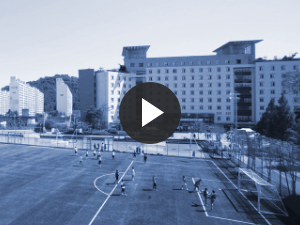
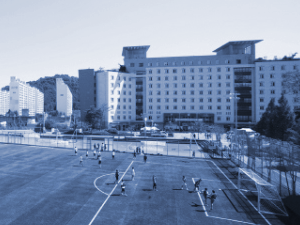
.

Changed region(s): [[0.39, 0.3422, 0.63, 0.6533]]

diff --git a/02_college/css/style.css b/02_college/css/style.css
@@ -5,7 +5,8 @@
 		#header {width: 100%;}
 		#header .topHead {background: #0044af;}
 		#header .container {width: 1200px; margin: 0 auto;position: relative;}
-		.topHead .menuLeft li { display: inline-block;width: 120px;float: left;padding: 12px 0;text-align: center;font-weight: bold;margin-right: 5px;}
+		.topHead .menuLeft li { display: inline-block;width: 120px;float: left;text-align: center;font-weight: bold;margin-right: 5px;}
+		.topHead .menuLeft li a{display: block;padding: 12px;}
 
 		#header .menuLeft li:nth-child(1) a,
 		.topHead .menuLeft li:nth-child(2):hover a,
@@ -23,18 +24,23 @@
 
 
 		.topHead .menuRight {position: absolute; right: 0;}
-		.topHead .menuRight li{display:inline-block;font-size: 12px;padding: 12px 10px 12px 0;line-height: 22px;}
-		.topHead .menuRight li a {color: #fff;}
-		.topHead .menuRight li:nth-child(2){padding-right: 0; }
-		.topHead .menuRight li:nth-child(3){padding-left:0;}
+		.topHead .menuRight li{display:inline-block;font-size: 12px;line-height: 22px;}
+		.topHead .menuRight li a {color: #fff;display: block; padding: 12px;}
+		.topHead .menuRight li:nth-child(2) a,
+		.topHead .menuRight li:nth-child(3) a {padding: 12px 0;}
+		.topHead .menuRight li:last-child a {padding-right: 0;}
 
 /*		----------------HEADER 2----------------------------------------*/
+		.downHead {position: relative;}
 		.downHead .logo {float: left;}
-		.downHead .downRight{float: right;padding: 36px 0 ; position: absolute;right: 0;}
-		.downHead .downMenu{float: right; }
-		.downHead .downMenu li{display: inline-block;padding: 12px 55px 12px 0;}
-		.downHead .downMenu li a{color: #000;}
+		.downHead .downRight{float: right;line-height: 45px; padding: 40px 0;}
+		.downHead .downMenu{float: right;}
+		.downHead .downMenu li{display: inline-block;}
+		.downHead .downMenu li a{color: #000;padding: 35px 0;padding-right: 53px;}
 		.downHead .downRight img{float: right;}
+
+		.topHead .menuRight li:hover a,
+		.downHead .downMenu li:hover a {opacity: .5;}
 
 /*		-----------------TOP SECTION---------------------------------------*/
 		#section {width: 100%;
@@ -43,15 +49,23 @@
 			background-size:3px, cover;
 			margin: 0 auto;}
 
-		#section .container {width: 1200px; margin: 0 auto;}
-		#section .container,
-		#section .container a {color: white}
+		#section .container {width: 1200px; margin: 0 auto; }
+		#section .container .conta01 {padding: 30px 0;}
+		#section .container .conta01 h2,
+		#section .container .conta01 h1 {color: #fff;}
+
+		#section .container a,
+		#section .container h2,
+		#section .container td,
+		#section .container p {color: white}
 		#section .container h2 {font-weight: normal;}
 		#section .container h1 {font-size:50px ;}
 
-		#section .textBig {float: left;}
+		#section .textBig {float: left;margin-top: 10px;}
 		#section .iconBox {float: right;}
 		#section .iconBox li{display: inline-block;padding-left: 20px;text-align: center;}
+		#section .iconBox li a {display: block;}
+		#section .iconBox li:hover a {opacity: .7;}
 /*		------------------CONTENT SECTION--------------------------------------*/
 		#contentsWrap .container > ul >li{float: left;width: 25%;height: 225px;}
 		.container .textWrap h2 span{font-weight: bold;}
@@ -60,11 +74,11 @@
 		#contentsWrap .container > ul >li:nth-child(1){width: 75%;position: relative;}
 
 		.container .cBox00 .slider .textWrap {position: absolute;bottom: 80px;left: 88px;}
-		.container .cBox00 .slider .textWrap h2 {color: #1651b7;font-size: 70px;width: 300px;letter-spacing: -8px;}
+		#section .container .cBox00 .slider .textWrap h2 {color: #1651b7;font-size: 70px;width: 300px;letter-spacing: -8px;margin-bottom: 30px;}
 		.container .cBox00 .slider .textWrap h2 span{font-weight: bold;}
 
-		.cBox00 .slider .textWrap .btn {background: #00163b;}
-		.cBox00 .slider .textWrap .btn:hover {background: #1651b7;}
+		#section .cBox00 .slider .textWrap .btn {background: #00163b;}
+		#section .cBox00 .slider .textWrap .btn:hover {background: #1651b7;}
 
 		.container .prevBtn {left: 0px;}
 		.container .nextBtn {right: 0; transform: scaleX(-1);}
@@ -73,42 +87,44 @@
 		.container .nextBtn:hover,
 		.container .prevBtn:hover {cursor: pointer;}
 
-		.cBox00 .bx-wrapper .bx-pager {padding-bottom: 70px;}
+		.cBox00 .bx-wrapper .bx-pager {bottom: 36px;}
 		.cBox00 .bx-wrapper .bx-pager.bx-default-pager a{background: #535353;}
 		.cBox00 .bx-wrapper .bx-pager.bx-default-pager a:hover,
 		.cBox00 .bx-wrapper .bx-pager.bx-default-pager a.active,
-		.cBox00 .bx-wrapper .bx-pager.bx-default-pager a:focus{ background: #0144af;}
+		#section .cBox00 .bx-wrapper .bx-pager.bx-default-pager a:focus{ background: #0144af;}
 /* -----------------------------2nd box---------------------------------------- */
-		#contentsWrap .container > ul >li:nth-child(2) {background: url(../images/level1-2.png)no-repeat;height: 450px;}
-		.container .cBox1 .textWrap {width: 230px; padding-top:45px; margin: 0 auto; letter-spacing: -3px;}
-		.container .cBox1 .textWrap h2 {font-size: 38px;font-weight:100;}
-		.cBox1 .textWrap .btn {background: rgba(54, 37, 17, 0.78);border: 1px solid #fff; letter-spacing: 0px;}
+		#contentsWrap .container > ul >li:nth-child(2) {background: url(../images/level1-2.png)no-repeat;height: 450px;padding: 70px 37px;}
+		.container .cBox1 .textWrap h2 {font-size: 38px;font-weight:100;margin-bottom: 20px;letter-spacing: -4px;}
+		.cBox1 .textWrap .btn {background: rgba(54, 37, 17, 0.78);border: 1px solid #fff;}
 		.cBox1 .textWrap .btn:hover {background: rgba(168, 116, 54, 0.77);}
 
 /* -----------------------------3rd box---------------------------------------- */
-#contentsWrap .container > ul >li:nth-child(3) {background: #00163b;}
+#contentsWrap .container > ul >li:nth-child(3) {background: #00163b;padding: 20px;}
 .container .cBox2 h3,
 .container .cBox3 h3,
-.container .cBox4 h3{font-weight:bolder;padding: 12px;font-size: 28px;}
-.container .cBox2 ul {display: flex;margin-top: 10px;justify-content: center}
-.container .cBox2 ul li {float: left;width: calc(90% / 3 );text-align: center;}
+.container .cBox4 h3{font-weight:bolder;font-size: 28px;}
+.container .cBox2 ul {display: flex;margin-top: 15px;justify-content: center}
+.container .cBox2 ul li {float: left;width: calc(100% / 3 );text-align: center;}
+.container .cBox2 ul li a {display: block;}
 #section .container .cBox2 ul li:hover p {opacity: .7;}
 /* -----------------------------4th box---------------------------------------- */
-#contentsWrap .container > ul >li:nth-child(4) {background:url(../images/tmp.png);}
-.container table {width: 88%;margin: 0 auto;font-size: 13px;line-height: 33px;border-top: 2px solid white;}
-.container table tr:before {content:"·";margin-right: 5px;}
+#contentsWrap .container > ul >li:nth-child(4) {background:url(../images/tmp.png);padding: 20px;}
+.container table {width:100%; margin: 15px auto;font-size: 13px;line-height: 30px;border-top: 2px solid white;}
+.container table tr:before {content:"·";margin-right: 5px;color: #fff;}
 #section .container .cBox3 table tr a:hover {color: #ddd;}
 /* -----------------------------5th box---------------------------------------- */
-#contentsWrap .container > ul >li:nth-child(5) {background: #fff;}
+#contentsWrap .container > ul >li:nth-child(5) {background: #fff;padding: 20px;}
 .container .cBox4 h3,
 .container .cBox4 p {color: #00173b;}
-.container .cBox4 .box4Wrap {width: 88%;  margin: 0 auto;position: relative;}
+.container .cBox4 .box4Wrap {width: 100%;  margin: 15px auto;position: relative;}
 .container .cBox4 .article {display: block;}
 .container .cBox4 .article img {float: left;width: 45%;}
-.container .cBox4 .article p {float: right;font-size: 15px;width: 52%;}
-.container .cBox4 .article:hover p {color: #999;}
+#section .container .cBox4 .article p {float: right;font-size: 14px;width: 52%; color: #000;}
+.container .cBox4 .article a {display: block;}
+#section .container .cBox4 .article:hover p {color: #999;}
+.container .cBox4 .snsBox {float: right;margin-top: 15px;}
+.container .cBox4 .snsBox a:hover,
 .container .cBox4 .article:hover img {opacity: .7;}
-.container .cBox4 .snsBox {float: right; padding-top: 25px;}
 
 /* -----------------------------6th box---------------------------------------- */
 #contentsWrap .container > ul >li:nth-child(6) {background: url(../images/level2-4.png)no-repeat;position: relative;}
@@ -116,29 +132,33 @@
 
 .container .cBox5 .textBox5 a{font-size: 19px;font-weight: bold;transition: all 0.3s}
 .container .cBox5:hover .textBox5 {height: 100%;}
-.container .cBox5:hover .textBox5 a {line-height: 225px;}
+.container .cBox5:hover .textBox5 a {line-height: 225px;display: block;}
 /* -----------------------------7th box---------------------------------------- */
+#contentsWrap .container > ul >li:nth-child(7) {background:url(../images/level3-1.png)no-repeat;position: relative;padding: 40px;}
 #contentsWrap .container > ul >li:nth-child(7):hover {cursor: pointer;}
-#contentsWrap .container > ul >li:nth-child(7):hover img {filter:brightness(.6);transition:.3s}
+#contentsWrap .container > ul >li:nth-child(7) img {display: flex;margin: auto;margin-top: 40px;}
+#contentsWrap .container > ul >li:nth-child(7):hover img {filter:brightness(.6);transition:.3s;}
 /* -----------------------------8th box---------------------------------------- */
 #contentsWrap .container > ul >li:nth-child(8) {width: 75%;position: relative;overflow: hidden;}
 
-.cBox6 .textWrap {color: #f74237 ;position: absolute;top: 10%;left: 3%;font-size: 28px;}
-.cBox6 .textWrap h2 {font-weight: bolder; font-size: 60px;padding-bottom: 10px;}
-.cBox6 .textWrap .btn {border: 1px solid #fff; background: rgba(232, 13, 0, 0.6);font-size: 16px;}
-.cBox6 .textWrap .btn:hover {background:rgba(255, 114, 106, 0.6); }
+#section .cBox6 .textWrap p,
+#section .cBox6 .textWrap h2 {color: #f74237 ;}
+#section .cBox6 .textWrap {height: 100%;position: absolute;top:0;left:0;font-size: 28px;padding: 25px;}
+#section .cBox6 .textWrap h2 {font-weight: bolder; font-size: 60px;padding-bottom: 10px;}
+#section .cBox6 .textWrap .btn {border: 1px solid #fff; background: rgba(232, 13, 0, 0.6);font-size: 16px;}
+#section .cBox6 .textWrap .btn:hover {background:rgba(255, 114, 106, 0.6); }
 
-.cBox6 .bx-wrapper .bx-pager {position: absolute;top: 1px;text-align: right;right: 40px;width:100px;}
-.cBox6 .bx-wrapper .bx-pager.bx-default-pager a{background: #535353;}
-.cBox6 .bx-wrapper .bx-pager.bx-default-pager a:hover,
-.cBox6 .bx-wrapper .bx-pager.bx-default-pager a.active,
-.cBox6 .bx-wrapper .bx-pager.bx-default-pager a:focus{ background: #f74237;}
+#section .cBox6 .bx-wrapper .bx-pager {position: absolute;top: 1px;text-align: right;right: 40px;width:100px;height: 40px;}
+#section .cBox6 .bx-wrapper .bx-pager.bx-default-pager a{background: #535353;}
+#section .cBox6 .bx-wrapper .bx-pager.bx-default-pager a:hover,
+#section .cBox6 .bx-wrapper .bx-pager.bx-default-pager a.active,
+#section .cBox6 .bx-wrapper .bx-pager.bx-default-pager a:focus{ background: #f74237;}
 
 /* --------------------FOOTER------------------------------------------------------- */
 #footer {width: 100%;background: #fff;}
 #footer .footWrap {width: 1200px;margin: 0 auto;}
-#footer .footWrap .logo {float: left;opacity: 0;margin: 30px 45px;}
-#footer .footWrap .footText {float: left; width: 846px; overflow: hidden; }
+#footer .footWrap .logo {float: left;margin-right: 90px;margin-top: 15px;}
+#footer .footWrap .footText {float: left; width: 846px; overflow: hidden; padding: 30px 0;}
 #footer .footWrap .footText ul li {display: inline-block ;position: relative;margin: 0 15px 15px 15px;}
 #footer .footWrap .footText ul li a {color: #444;}
 #footer .footWrap .footText ul li a:hover {color: #959595;}

diff --git a/02_college/index.html b/02_college/index.html
@@ -38,7 +38,7 @@
 				innerHeight:393.75
 			});
 		});
-		
+
 	</script>
 
 </head>
@@ -67,7 +67,8 @@
 			<!--topHead-->
 			<div class="downHead ">
 				<div class="container clearfix">
-					<div class="logo"><img src="images/logo.png" alt="logo"></div>
+					<h1 class="logo"><a href="#"><img src="images/logo.png" alt="한국대학교"></a>
+					</h1>
 					<div class="downRight">
 						<a href="#"><img src="images/friend.png" alt="friend"></a>
 						<a href="#"><img src="images/slide.png" alt="slide"></a>
@@ -85,8 +86,9 @@
 			</div>
 			<!--downHead-->
 		</header>
-		<section id="section" class="pt pb">
-			<div class="container clearfix pt pb">
+		<section id="section" class="pb">
+			<div class="container clearfix">
+				<article class="conta01 clearfix">
 				<div class="textBig">
 					<h2>함께 나누며 세상을 이끌어</h2>
 					<h1>세계로향하는 한국대학교</h1>
@@ -108,11 +110,11 @@
 							<img src="images/icon04.png" alt="01">
 							<p>증명서발급</p>
 						</a></li>
-
 				</ul>
+				</article>
 			</div>
 			<!--container-->
-			<div id="contentsWrap" class="pb clearfix">
+			<div id="contentsWrap" class="clearfix">
 				<div class="container">
 					<ul class="clearfix">
 						<li class="cBox00">
@@ -120,28 +122,28 @@
 								<li>
 									<img src="images/level1-1.png" alt="">
 									<div class="textWrap">
-									<h2 class="pb"><span>한국</span>에서 <span>시작</span>하는 새로운 <span> 꿈</span></h2>
+									<h2><span>한국</span>에서 <span>시작</span>하는 새로운 <span> 꿈</span></h2>
 									<a href="#" class="btn">자세히보기 ▶</a>
 									</div>
 								</li>
 								<li>
 									<img src="images/level1-1.png" alt="">
 									<div class="textWrap">
-									<h2 class="pb"><span>한국</span>에서 <span>시작</span>하는 새로운 <span> 꿈</span></h2>
+									<h2><span>한국</span>에서 <span>시작</span>하는 새로운 <span> 꿈</span></h2>
 									<a href="#" class="btn">자세히보기 ▶</a>
 									</div>
 								</li>
 								<li>
 									<img src="images/level1-1.png" alt="">
 									<div class="textWrap">
-									<h2 class="pb"><span>한국</span>에서 <span>시작</span>하는 새로운 <span> 꿈</span></h2>
+									<h2><span>한국</span>에서 <span>시작</span>하는 새로운 <span> 꿈</span></h2>
 									<a href="#" class="btn">자세히보기 ▶</a>
 									</div>
 								</li>
 								<li>
 									<img src="images/level1-1.png" alt="">
 									<div class="textWrap">
-									<h2 class="pb"><span>한국</span>에서 <span>시작</span>하는 새로운 <span> 꿈</span></h2>
+									<h2><span>한국</span>에서 <span>시작</span>하는 새로운 <span> 꿈</span></h2>
 									<a href="#" class="btn">자세히보기 ▶</a>
 									</div>
 								</li>
@@ -155,7 +157,7 @@
 						</li>
 						<li class="cBox1">
 							<div class="textWrap">
-								<h2 class="pb"><span>APP</span>으로 <span><br>
+								<h2><span>APP</span>으로 <span><br>
 									스마트 도서관</span><br>
 									바로이용하자<i>!</i></h2>
 								<p>모바일 열람증은<br>도서 자료/도서대출 등에<br>사용 할 수 있습니다.</p>
@@ -217,7 +219,7 @@
 						</li>
 						<li>
 							<a href="https://www.youtube.com/embed/nuHjZrfLAzY" class="youtube" title="21영상">
-			        <img src="./images/level3-1.png" alt="img4">
+			        <img src="./images/level3-12.png" alt="play">
 			      </a>
 					</li>
 						<li class="cBox6">
@@ -263,7 +265,7 @@
 <div id="footer">
 	<div class="footWrap ">
 		<div class="logo"><img src="./images/logo.png" alt=""></div>
-		<div class="footText pt pb">
+		<div class="footText">
 			<ul class="clearfix">
 				<li><a href="#">회사소개</a></li>
 				<li><a href="#">한국 대학교</a></li>

diff --git a/02_college/css/reset.css b/02_college/css/reset.css
@@ -6,9 +6,10 @@ html,body
 	text-decoration: none;
 	list-style: none;
 	font-family: ;
+	box-sizing: border-box;
 }
 .clearfix:after {content: ""; clear: both; display: block;}
-
+h3 {color: #fff;}
 .mb5 {margin-bottom: 5px;}
 .mb10 {margin-bottom: 10px;}
 .mb15 {margin-bottom: 15px;}
